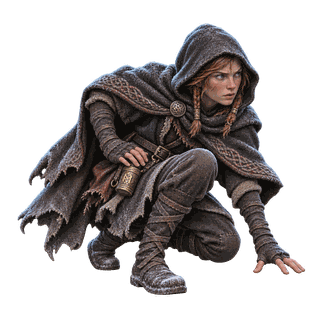
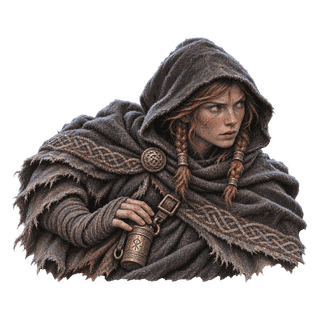
Correct Norse portrait framing and Rime Brute anatomy

diff --git a/ArtBrief/CLAUDE-CARD-ART-HANDOFF.md b/ArtBrief/CLAUDE-CARD-ART-HANDOFF.md
@@ -1,8 +1,8 @@
 # Dawnwager card art handoff
 
-Use [Hel-Art-Direction.png](Hel-Art-Direction.png) as a **technique reference only**: opaque matte gouache on toned paper, broad painted forms, tactile wool and iron, natural anatomy, charcoal shadows, and restrained color. Do not copy Hel's face, mask, hair, silhouette, clothing, or plum palette onto another character. Prefer written style direction over passing Hel's portrait as an image reference for unrelated cards; that caused unrelated characters to inherit her mask and wardrobe in early drafts. Give every card a specific identity, one readable action, and a distinct silhouette. Keep the sharpest edges near the face or defining prop.
+Use [Hel-Art-Direction.png](Hel-Art-Direction.png) as a **technique reference only**: opaque matte gouache on toned paper, broad painted forms, tactile wool and iron, natural anatomy, charcoal shadows, and restrained color. The setting is Norse mythology: ground the world in saga-era Scandinavia, its gods and creatures, carved runes, longhouses, fjords, ships, barrows, and mythic places such as Bifröst and Élivágar. Use historically grounded wool, linen, leather, timber, iron, and bronze; fantasy elements should grow from Norse cosmology and folklore. Do not introduce modern objects, generic high-fantasy armor, or unrelated visual motifs. Do not copy Hel's face, mask, hair, silhouette, clothing, or plum palette onto another character. Prefer written style direction over passing Hel's portrait as an image reference for unrelated cards; that caused unrelated characters to inherit her mask and wardrobe in early drafts. Give every card a specific identity, one readable action, and a distinct silhouette. Keep the sharpest edges near the face or defining prop.
 
-The 161-card catalog is **not yet art-complete**. Redrawn entries currently include A01–A10, A13, A17 and A19. The Unit/Site pairs were checked side by side for matching identity and distinct action. The other catalog entries remain pending; do not describe them as final or mark their checklist rows complete. N06 Fisher of the Sound remains the regression check for the earlier male-card/female-board mismatch.
+The 161-card catalog is in an active art pass; use `Card-Art-Consistency-Checklist.csv` as the source of truth. Installed/generated artwork is still draft art until a human art director reviews it. Do not call the full set final while any checklist rows remain pending. N06 Fisher of the Sound remains the regression check for the earlier male-card/female-board mismatch.
 
 Review the [first four paired illustrations](Art-Pair-Review-A01-A02-A05-A06.jpg) and the [full catalog](Dawnwager-Full-Card-Catalog.jpg) alongside the reference. The paired review is a static preview; it does not replace checking the sprites in Unity. Refresh both full-catalog previews only after the complete art pass.
 
@@ -10,8 +10,8 @@ Review the [first four paired illustrations](Art-Pair-Review-A01-A02-A05-A06.jpg
 
 1. Write a short identity line for the character before drawing either view: age, face, hair, skin tone, clothing palette, and one signature object.
 2. Design the card illustration as an environmental scene whose action communicates the card. Keep it in the card art well's landscape crop.
-3. Design the board portrait as a separate pose of the same individual. Preserve face, age, hair, clothing, and props; change camera angle and action. Keep the complete silhouette inside the transparent canvas.
-4. Compare the card and board images at full size and at board scale. Reject identity drift, repeated poses, clipped hands/weapons, and details that disappear at board scale.
+3. Design the played humanoid portrait as a separate **chest/waist-up bust** of the same individual. Match the established cutout scale: face, shoulders, upper torso, and only the hands/prop needed for the action. Do not show human legs or a full body. Keep arms anatomically connected, both hands intentional, and the cutout cleanly transparent with no platform, pedestal, or fake ground shadow. Animal portraits may remain full-body when that is the established design.
+4. Compare the card and board images at full size and inside the actual board tile. Reject identity drift, repeated poses, malformed/extra limbs, awkward arm joins, clipped hands/weapons, human full-body cutouts, and details that disappear at board scale. Keep card scene views and played busts compositionally distinct.
 5. Preserve each Unity `.meta` file. Update the matching checklist row only after both views have passed inspection. Human art-direction approval remains a separate status from identity/pose checks.
 
 ## Runtime paths

diff --git a/ArtBrief/CARD-ART-PRODUCTION-DIRECTION.md b/ArtBrief/CARD-ART-PRODUCTION-DIRECTION.md
@@ -4,7 +4,7 @@ This brief supersedes the earlier assumption that tonal grading and texture trea
 
 ## Shared visual direction
 
-Use the attached `Hel-Art-Direction.png` as a technique reference only: matte gouache on toned paper, visibly hand-shaped brushwork, tactile wool, wood, iron and weathered skin; broad value masses; natural anatomy; restrained cold slate, brass, ember, and faction colors. Maintain legibility at the card art well (348 × 296 logical pixels) and board portrait display (about 164 × 176). Keep all titles, card frames, stats, type and rules as live UI.
+Use the attached `Hel-Art-Direction.png` as a technique reference only: matte gouache on toned paper, visibly hand-shaped brushwork, tactile wool, wood, iron and weathered skin; broad value masses; natural anatomy; restrained cold slate, brass, ember, and faction colors. The world is Norse mythology rooted in saga-era Scandinavia: use runes, longhouses, fjords, ships, barrows, and the established gods, creatures, and mythic places. Build fantasy details from Norse cosmology; avoid modern objects, generic high-fantasy armor, and unrelated motifs. Maintain legibility at the card art well (348 × 296 logical pixels) and board portrait display (about 164 × 176). Keep all titles, card frames, stats, type and rules as live UI.
 
 The art should feel selected and composed by a senior fantasy illustrator. Avoid the recurring AI look: same head-and-shoulders crop, same three-quarter face turned left, same centered frontal stance, repeated shoulder silhouette, generic decorative details, overly polished skin, hyper-detailed noise everywhere, accidental text, and excessive uniform fog. Do not apply a global filter or reuse one pose across a faction.
 
@@ -12,7 +12,7 @@ The art should feel selected and composed by a senior fantasy illustrator. Avoid
 
 - For every Unit with both `CardFaces/<ID>.png` and `BoardPortraits/<ID>.png`, those images must depict the same named individual. Match apparent age, gender, face, hair, scars, skin tone, defining clothing, weapon and signature prop. The board art may change the action and camera angle, but must preserve the character identity.
 - Give each character a short visual identity line and one signature anchor before painting either view. Record it in the checklist or a companion art bible. Do not infer identity from faction alone.
-- Assign every Unit a distinct silhouette, action and camera distance. Rotate among full-body motion, profile, overhead/low angle, seated work, defensive brace, leaping attack, mounted travel, group command, ritual, and quiet narrative beat. Avoid repeating the same pose in neighboring cards or between Legendary characters.
+- Assign every Unit card scene a distinct silhouette, action and camera distance. Rotate among full-body motion, profile, overhead/low angle, seated work, defensive brace, leaping attack, mounted travel, group command, ritual, and quiet narrative beat. Played humanoid art is always a chest/waist-up bust; full-body compositions are reserved for animals when they suit the established cutout style. Avoid repeating the same pose in neighboring cards or between Legendary characters.
 - Derive the action from the card's name, rules, role and equipment. Guard should communicate its own action; Rush should have a legible path of motion; healers should show an intentional healing interaction; a fisherman should perform a believable fishing task. Generic idle poses are not acceptable for the whole catalog.
 - For Orders, show the event or action being cast, not a lineup of characters. For Sites, establish a distinctive place and architecture that can be recognized again when it remains on the board. For Prophecies, use a strong readable omen image with a clear focal shape.
 - For tokens and summoned cards, use the exact token's identity art. A summon animation must never substitute the summoning Order's artwork.
